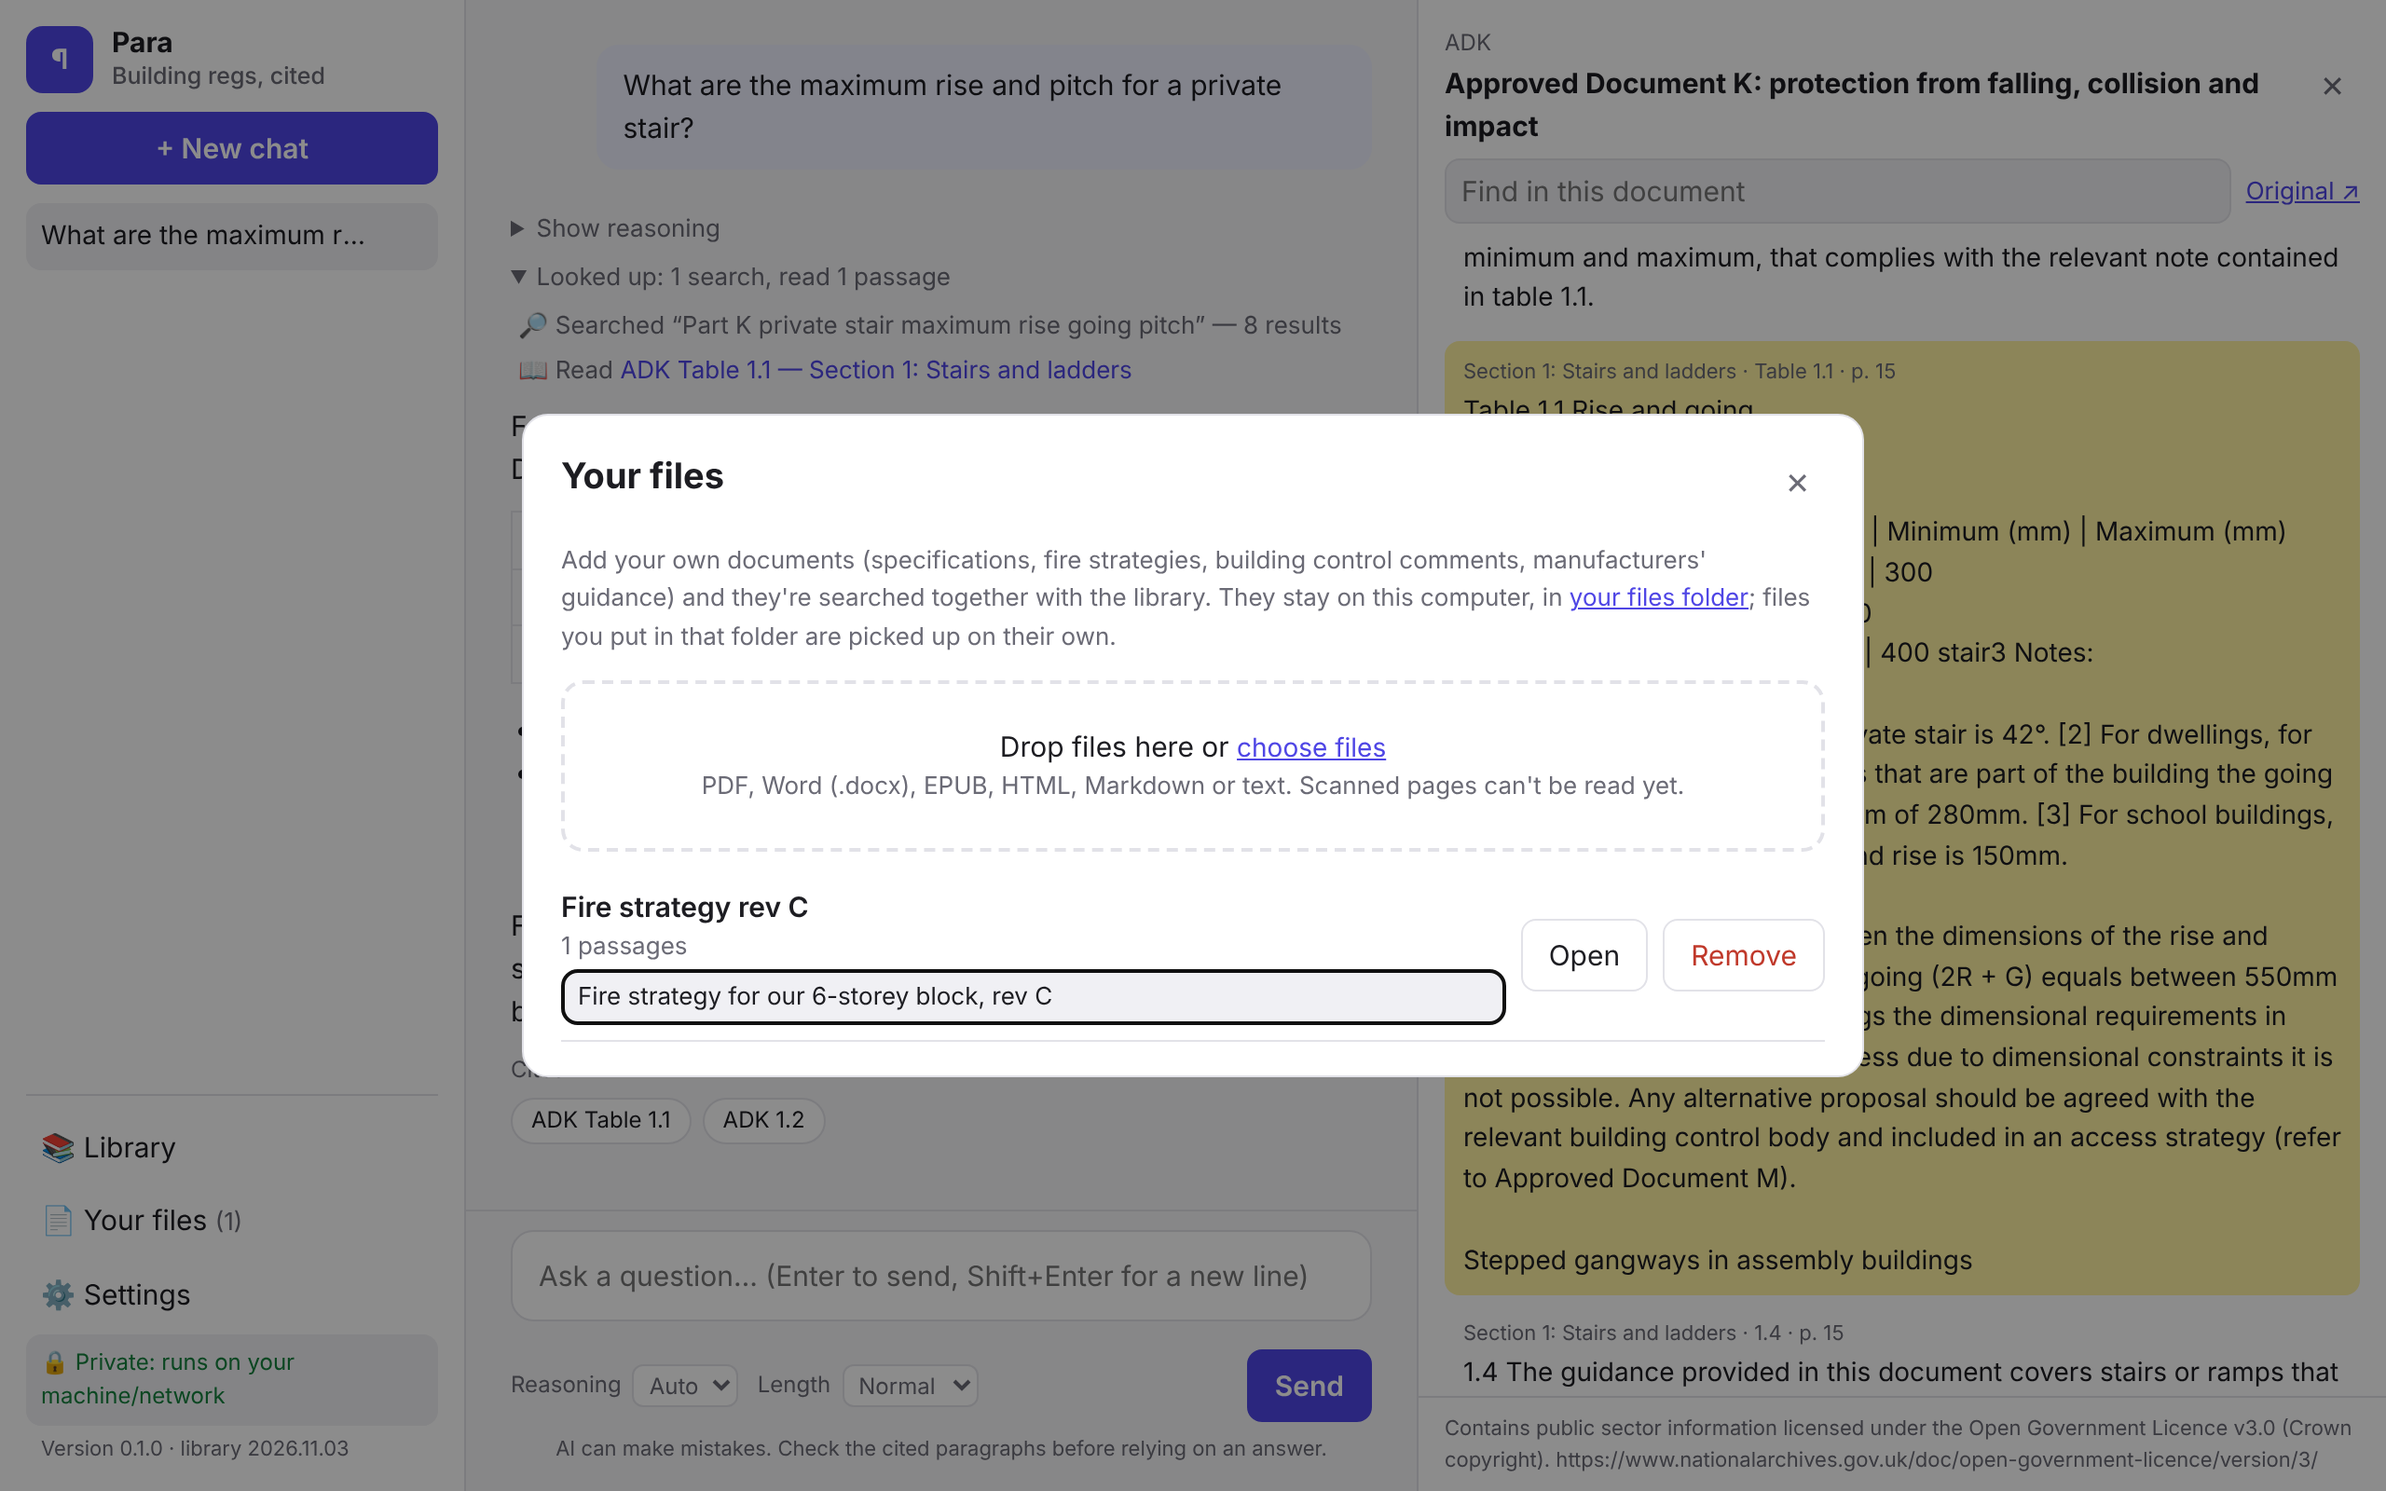
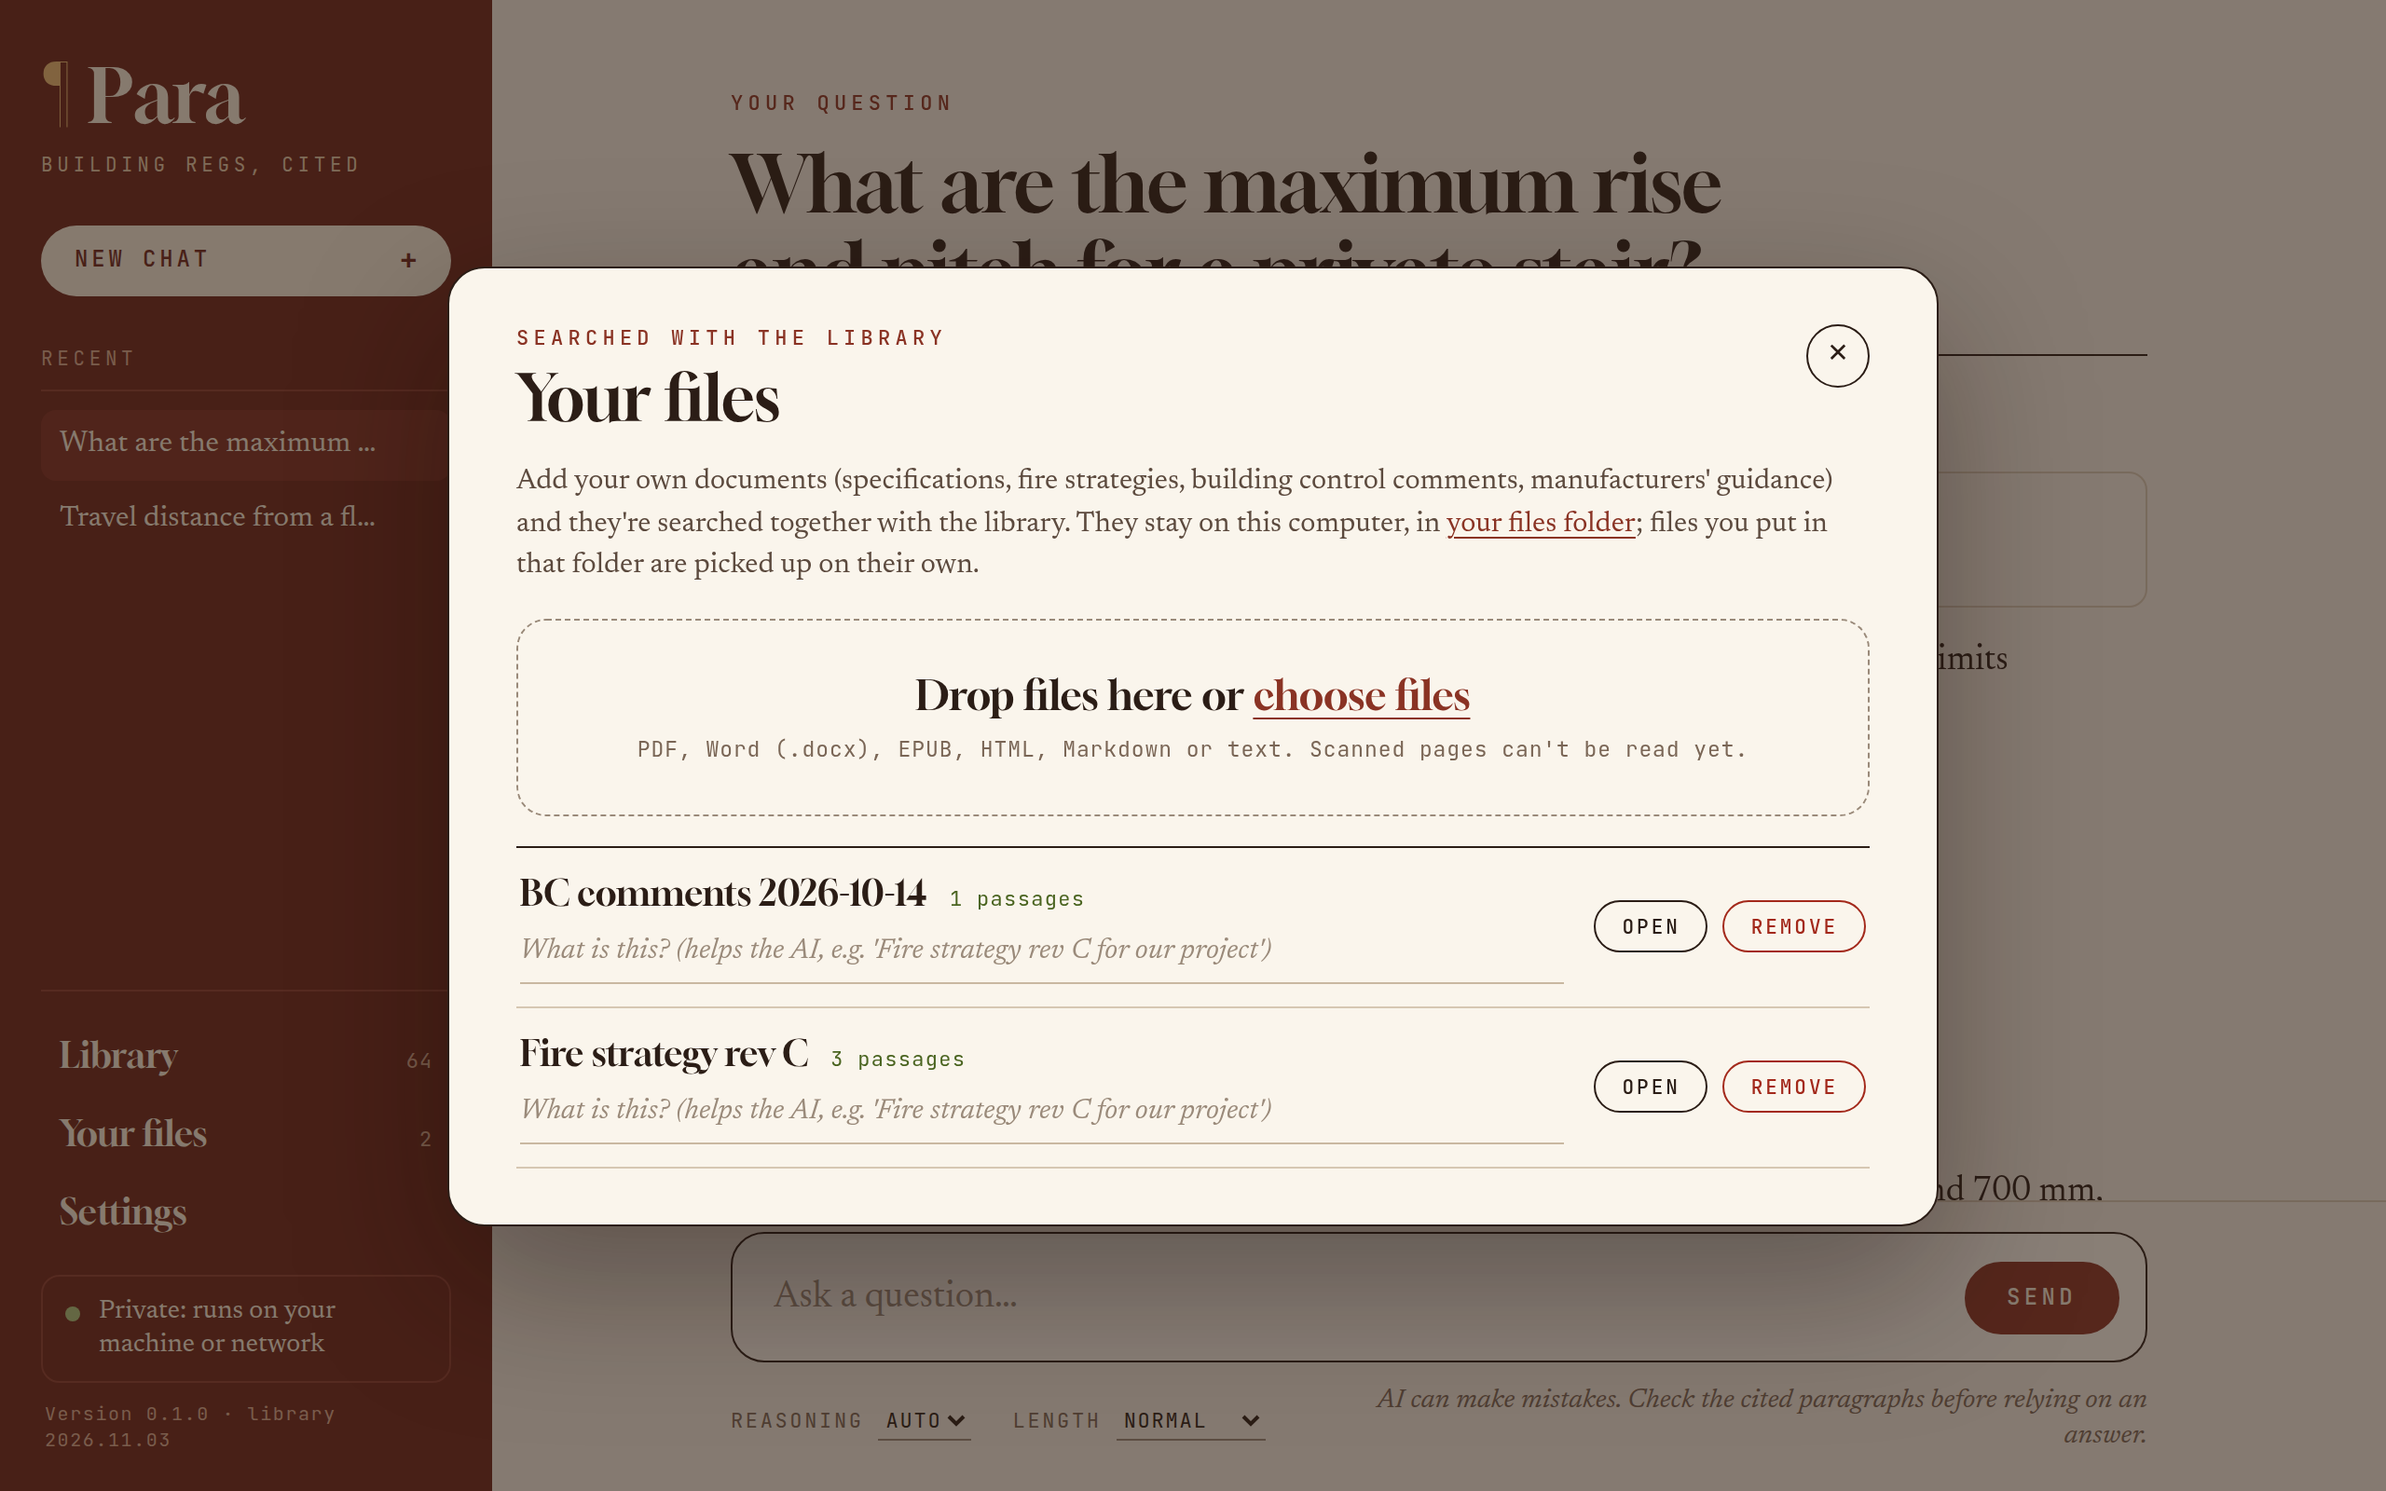
DESIGN.md and screenshots for the new look
New tokens, type and layout; Principle 4 now describes the look; the 26 px
heading rule and the phone-width and emoji known gaps are gone.

diff --git a/DESIGN.md b/DESIGN.md
@@ -12,8 +12,9 @@ when the interface changes).
    answer comes first.
 3. **Honest states.** Say plainly when an answer doesn't come from the library, when a citation was removed, when
    the engine isn't private, and when the answer was cut short. Never hide these to look cleaner.
-4. **Calm and professional.** It's a reference tool used at work: neutral colours, one accent, no animation beyond
-   the typing cursor, no illustrations.
+4. **Calm and professional.** It's a reference tool used at work, styled like a well-set printed reference:
+   parchment pages, an oxblood sidebar, one clay accent, a serif for reading and a monospace for labels. No animation
+   beyond the typing cursor, no illustrations, no emoji.
 5. **Works without explanation.** Someone who has never used an AI tool should get from install to a cited answer
    without reading anything.
 
@@ -21,19 +22,24 @@ when the interface changes).
 
 ```
 ┌───────────────┬──────────────────────────────────┬───────────────────────┐
-│ ¶ Para        │  conversation                    │  Reader (when open)   │
-│ + New chat    │   question (right, tinted)       │   document · title    │
-│ chat list     │   ▸ Show reasoning               │   find · Original ↗   │
-│               │   ▸ Looked up: 2 searches, …     │   passages, cited one │
+│ ¶ Para        │  YOUR QUESTION                   │  Reader (overlay,     │
+│ New chat   +  │  Question in display type        │  when open)           │
+│ RECENT        │  ──────────────────────────────  │   eyebrow · title  ✕  │
+│ chat list     │   + Show reasoning               │   find · Original ↗   │
+│               │   + Looked up: 2 searches, …     │   passages, cited one │
 │               │   answer with [ADK Table 1.1]    │   highlighted         │
-│               │   Cited: chips                   │                       │
-│ Library       ├──────────────────────────────────┤   licence             │
-│ Your files    │  question box                    │                       │
-│ Settings      │  Reasoning · Length      [Send]  │                       │
-│ 🔒 Private    │  disclaimer                      │                       │
+│               │   CITED: ref ······ heading      │                       │
+│ Library    64 ├──────────────────────────────────┤   licence             │
+│ Your files  3 │  [ question box         Send ]   │                       │
+│ Settings      │  REASONING · LENGTH  disclaimer  │                       │
+│ ● Private     │                                  │                       │
 └───────────────┴──────────────────────────────────┴───────────────────────┘
-   250 px              flexible, text ≤ 860 px          min(520 px, 45vw)
+   264 px              flexible, text ≤ 760 px          min(500 px, 46vw)
 ```
+
+The reader is an overlay on the right edge. Above 1240 px the conversation and question box make room for it;
+below that it covers part of the conversation. Below 900 px the sidebar becomes a full-screen drawer opened from a
+menu button in a 56 px top bar, and the reader and dialogs fill the screen.
 
 Dialogs (native `<dialog>`): **Settings** (tabs: AI engine, Instructions, Project notes, Updates & about),
 **Your files**, **Library** (browse documents and search without AI), and the **permission** prompt shown the first
@@ -59,33 +65,63 @@ Defined on `:root` in `para/static/app.css`, redefined for dark mode under `pref
 
 | Token | Light | Dark | Used for |
 |---|---|---|---|
-| `--bg` | `#f6f6f8` | `#111116` | page |
-| `--panel` / `--panel-2` | `#ffffff` / `#f0f0f4` | `#1a1a22` / `#23232d` | sidebar, cards, inputs / hover, code |
-| `--border` | `#e2e2e8` | `#2e2e3a` | all hairlines |
-| `--text` / `--muted` | `#1d1d22` / `#6b6b76` | `#e6e6ea` / `#9a9aa6` | body / secondary |
-| `--accent` | `#4f46e5` | `#8b8ef8` | primary buttons, links, focus, selected |
-| `--accent-2` | `#eef0ff` | `#262848` | question bubble, selected cards |
-| `--cite` / `--cite-text` | `#eef0ff` / `#3730a3` | `#2a2c52` / `#c7c9ff` | regulation citations |
-| `--warn` / `--warn-bg` | `#b45309` / `#fff7e6` | `#f0b35a` / `#33281a` | notes, your-file citations, remote engine |
-| `--ok` / `--danger` | `#15803d` / `#c0392b` | `#4ade80` / `#f87171` | private badge / errors, delete |
-| `--mark` | `#fff3a3` | `#5a4d10` | the cited passage in the reader |
+| `--bg` | `#f2ebdf` | `#1c1411` | page, main column |
+| `--panel` / `--panel-2` | `#faf5ec` / `#eadfcd` | `#261b17` / `#30231e` | reader, dialogs, question box / hover rows, reasoning |
+| `--field` | `#fffdf8` | `#2a1e19` | inputs, text areas |
+| `--sidebar` / `--sidebar-hover` / `--sidebar-line` | `#6b2419` / `#7d2e22` / `#8a3c2f` | `#3a120c` / `#4d1a12` / `#5a2219` | sidebar, phone top bar and drawer |
+| `--sidebar-text` / `--sidebar-muted` | `#f4ead9` / `#d7a98f` | `#efe4d3` / `#b58a73` | sidebar text / labels, counts |
+| `--ink` (`--text`) | `#2b1d16` | `#efe4d3` | body text, strong rules, outline buttons |
+| `--muted` / `--muted-2` / `--faint` | `#5c4a3e` / `#7a6656` / `#9a8a7a` | `#b8a593` / `#8a7868` / `#6b5a4e` | secondary text / meta, mono labels / placeholders, dotted leaders |
+| `--border` / `--border-field` | `#d6c7b2` / `#c9b8a1` | `#3d2c25` / `#5c4a3e` | hairlines / input borders |
+| `--line-strong` | `--ink` | `#5c4a3e` | outline of dialogs, reader and question box |
+| `--accent` / `--accent-hover` | `#8a3324` / `#6b2419` | `#d9876b` / `#e0927a` | primary buttons, links, eyebrows, focus, selected |
+| `--accent-2` | `#f3e4cf` | `#3a2620` | selected cards, drag-over, 3 px focus ring |
+| `--gold` | `#e9b872` | `#e9b872` | pilcrow, Recommended tag, remote badge, dark-mode New chat |
+| `--cite` / `--cite-text` | `#ecdcc0` / `#8a3324` | `#3d2620` / `#f0b9a0` | regulation citations (hover: accent with cream text) |
+| `--mark` | `#f0dfb6` | `#4a3a17` | the cited passage in the reader, search highlight |
+| `--warn` / `--warn-bg` | `#5e3a0a` / `#f5e6c8` | `#f0c98a` / `#3a2a14` | notes, remote warning; your-file citations use `#7a4a0c` with a `#c99a4a` border |
+| `--danger` / `--danger-bg` | `#a3291b` (text `#7d1d12`) / `#f6dcd3` | `#f08a7a` / `#3a1a14` | errors, Remove, too-big models |
+| `--ok` | `#4a6420` (dot `#a9c27a`) | `#a9c27a` | private badge, success lines, Installed |
+| `--none` | `#e07a5f` | `#e07a5f` | "No AI engine set up" badge |
+| `--track` | `#e6d9c4` | `#3d2c25` | progress track (fill is `--accent`) |
 
-Type: the system UI font stack at 15 px / 1.55; 12–13 px for secondary text; headings are weight 700, never larger
-than 26 px. Radius: 10 px (cards, dialogs 14 px, chips 6 px or pill). Spacing in multiples of 2 px, mostly 8, 10,
-14, 24.
+Backdrop `rgba(43,29,22,.55)`; dialog shadow `0 30px 80px rgba(20,10,6,.35)`; reader shadow
+`-24px 0 48px rgba(43,29,22,.18)`.
+
+Type, bundled in `para/static/fonts/` so the app works offline (all SIL Open Font License):
+
+- **Display**, Gloock 400: welcome heading `clamp(40px, 5vw, 64px)`, the question `clamp(28px, 3.4vw, 42px)`,
+  dialog titles 32–40 px, reader title 26 px, group titles 22–24 px, sidebar links 19 px, the brand 40 px.
+- **Body**, Newsreader 400–600 and italic: answers 19 px / 1.6, dialog text 15–17 px, reader 16 px. Italic for quiet
+  notes (disclaimer, hints, "Nothing found.", "No chats yet.").
+- **Labels**, JetBrains Mono 400–500: eyebrows 11 px uppercase with .22–.24em tracking in `--accent`; button labels
+  11–12 px uppercase; citations 12 px; sizes, dates and page refs 11–12.5 px.
+
+Radius: dialogs 20 px, the question box 18 px, cards 14 px, notes and errors 12 px, inputs 10 px, citations 4 px,
+buttons and pills 999 px, close buttons a 34 px circle. Spacing in multiples of 2 px, mostly 8, 10, 14, 22, 28.
 
 ## Components
 
-- **Citation** (`.cite`): inline button, `--cite` background, label `<source> <ref>`, tooltip with the heading.
-  Your files use the warm variant (`.cite.file`) so people can tell their documents from the regulations.
-- **Source chips** (`.source-chip`): under the answer, "Cited" then "read" passages, pill outline.
-- **Activity** and **reasoning**: `<details>`, collapsed by default, 13 px muted.
+- **Question** (`.msg.user`): a heading, not a bubble: "Your question" eyebrow, the question in display type, an
+  ink rule under it. Each turn repeats it.
+- **Citation** (`.cite`): inline mono tag, `--cite` background, label `<source> <ref>`, tooltip with the heading.
+  Your files use the warm, bordered variant (`.cite.file`) so people can tell their documents from the regulations.
+- **Cited list** (`.sources`, `.source-chip`): under the answer, a "Cited" (or "Cited and read") eyebrow over an
+  ink rule, then one ruled row per passage: the ref in display type, a dotted leader, the heading in mono.
+- **Activity** and **reasoning**: `<details>`, collapsed by default, a mono summary line with "+" or "−" in accent.
+  Expanded activity is a bordered mono list; expanded reasoning is italic on `--panel-2`.
+- **Buttons**: primary is an accent pill with a cream mono uppercase label; secondary an ink outline pill; danger a
+  red outline pill; disabled at 40 % opacity.
 - **Notes** (`.note`): warm background for honest-state messages; **errors** (`.error`) in danger colour, with a
   button to the setting that fixes them.
-- **Privacy badge**: bottom of the sidebar. Green "Private" for the built-in engine or a local or LAN address,
-  amber with the host name for anything else, red "No AI engine set up" (opens Settings).
-- **Model cards**: radio, name, Recommended tag, one-line description with download size and memory, action
-  button (Download / Delete).
+- **Privacy badge**: bottom of the sidebar, a bordered box with a coloured dot. Green "Private" for the built-in
+  engine or a local or LAN address, gold with the host name for anything else, coral "No AI engine set up" (opens
+  Settings). On phones the dot alone sits at the right of the top bar.
+- **Model rows**: ruled rows with a radio, name, Recommended tag (gold pill), description, mono size and memory line,
+  and an action (Download, or Installed and Delete). Models too big for this computer are faded with the size line
+  in red.
+- **Library list**: a three-column grid (short name, title with the edition in italic under it, date) so long
+  edition text can't squeeze the titles.
 - **Reader**: document short name and full title, find-in-document filter, link to the original (gov.uk or
   legislation.gov.uk) or "Open file" for the person's files, licence line in the footer. For PDFs the link opens
   the page of the cited passage ("Original, page 34 ↗") and each passage header has its own "PDF page N ↗".
@@ -97,17 +133,14 @@ than 26 px. Radius: 10 px (cards, dialogs 14 px, chips 6 px or pill). Spacing in
 
 British English, sentence case, plain verbs on buttons ("Download", "Save", "Open file"). Say what happened and
 what to do next ("The AI cited 1 passage it never looked up, so it was removed."). No "oops", no exclamation marks,
-no emoji in messages (icons in the sidebar and activity list are the only exception).
+no emoji anywhere.
 
 ## Known gaps
 
-- **Phone width**: the sidebar is hidden below 900 px with no way to open it, so chats, Library, Your files and
-  Settings are unreachable there. Needs a menu button. (Matters only when serving to a network with `--host`.)
 - **Tables in the reader** show the table's image, then its text as pipe-separated rows
   (`Private stair | 150 | 220`). The text could be collapsed under the image, or rendered as an HTML table.
 - **Figure crops** are found from captions, so a few are cut short or include the next heading, and some
   diagrams without a recognisable caption have no image. "Original, page N" is always there as a fallback.
-- **Icons** are emoji and look different on each platform. Replace with a small inline SVG set.
 - **Reader find** hides non-matching passages rather than highlighting matches.
 - **No app icon** yet (`packaging/icon.icns`, `packaging/icon.ico`). The ¶ mark in the sidebar is the starting point.
 - **Keyboard**: dialogs and citations are reachable by Tab, but there's no shortcut for New chat or focusing the
